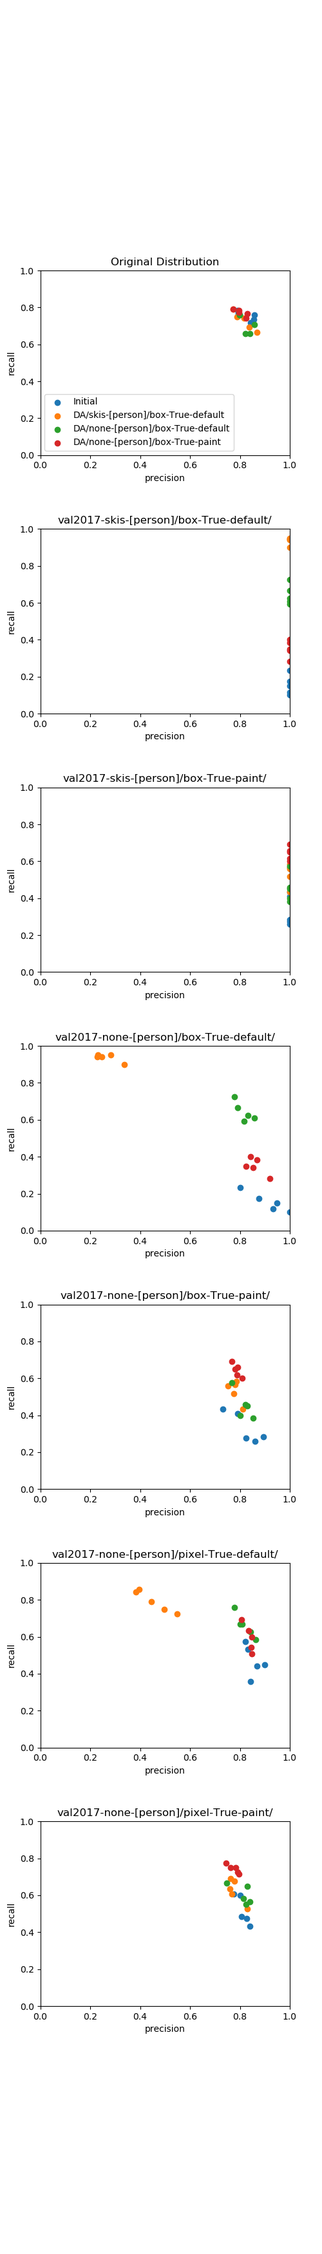
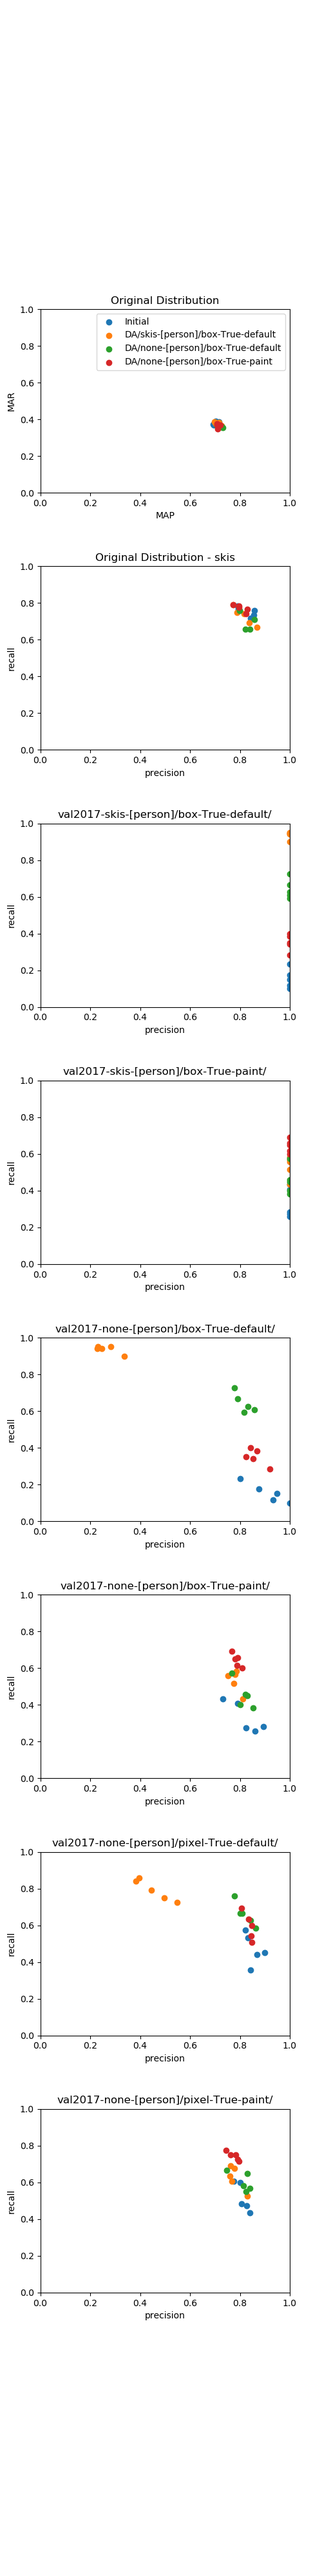
Added evaluation of general accuracy to the comparison

diff --git a/COCO/CompareModels.py b/COCO/CompareModels.py
@@ -58,7 +58,7 @@ if __name__ == '__main__':
     wrapper = ModelWrapper(model)
 
     # Format the plot grid
-    num_plots = len(data_configs) + 1
+    num_plots = len(data_configs) + 2
     fig = plt.figure(figsize=(5, num_plots * 5))
     fig.subplots_adjust(hspace=0.4, wspace=0.4)
     count_plots = 1
@@ -67,18 +67,46 @@ if __name__ == '__main__':
     plt.subplot(num_plots, 1, count_plots)
     count_plots += 1
     plt.title('Original Distribution')
-    plt.xlabel('precision')
-    plt.ylabel('recall')
+    plt.xlabel('MAP')
+    plt.ylabel('MAR')
     plt.xlim([0, 1])
     plt.ylim([0, 1])
 
     dataset = COCODataset(root = '/home/gregory/Datasets/COCO/', mode = 'val', year = '2017')
     dataloader = my_dataloader(dataset)
+    
+    for model_config in model_configs:
+        p = []
+        r = []
+        for trial in range(n_trials):
+        
+            model_file = '{}/{}/model_{}.pt'.format(model_base, model_config, trial)
+        
+            model.load_state_dict(torch.load(model_file))
+            
+            y_hat, y_true = wrapper.predict_dataset(dataloader)
+            precision, recall = wrapper.metrics(y_hat, y_true)
+            
+            o1, o2 = coco.get_metrics(precision, recall)
+            
+            p.append(o1)
+            r.append(o2)
+            
+        plt.scatter(p, r, label = model_config)
+    plt.legend()
 
+        
+    plt.subplot(num_plots, 1, count_plots)
+    count_plots += 1
+    plt.title('Original Distribution - {}'.format(plot_class))
+    plt.xlabel('precision')
+    plt.ylabel('recall')
+    plt.xlim([0, 1])
+    plt.ylim([0, 1])
+        
     for model_config in model_configs:
         p, r = my_metrics(model_config, dataloader)
         plt.scatter(p, r, label = model_config)
-    plt.legend()
     
     # Plot the metrics on the altered distributions
     for data_config in data_configs:

diff --git a/COCO/COCOWrapper.py b/COCO/COCOWrapper.py
@@ -57,3 +57,19 @@ class COCOWrapper():
         print("MAP MAR")
         print(MAP / len(cats), MAR / len(cats))
         print()
+        
+    def get_metrics(self, precision, recall):
+        cats = self.cats
+        
+        MAP = 0.0
+        MAR = 0.0
+        for cat in cats:
+            p = precision[cat['id']]
+            MAP += p
+            r = recall[cat['id']]
+            MAR += r
+        
+        MAP /= len(cats)
+        MAR /= len(cats)
+        
+        return MAP, MAR
